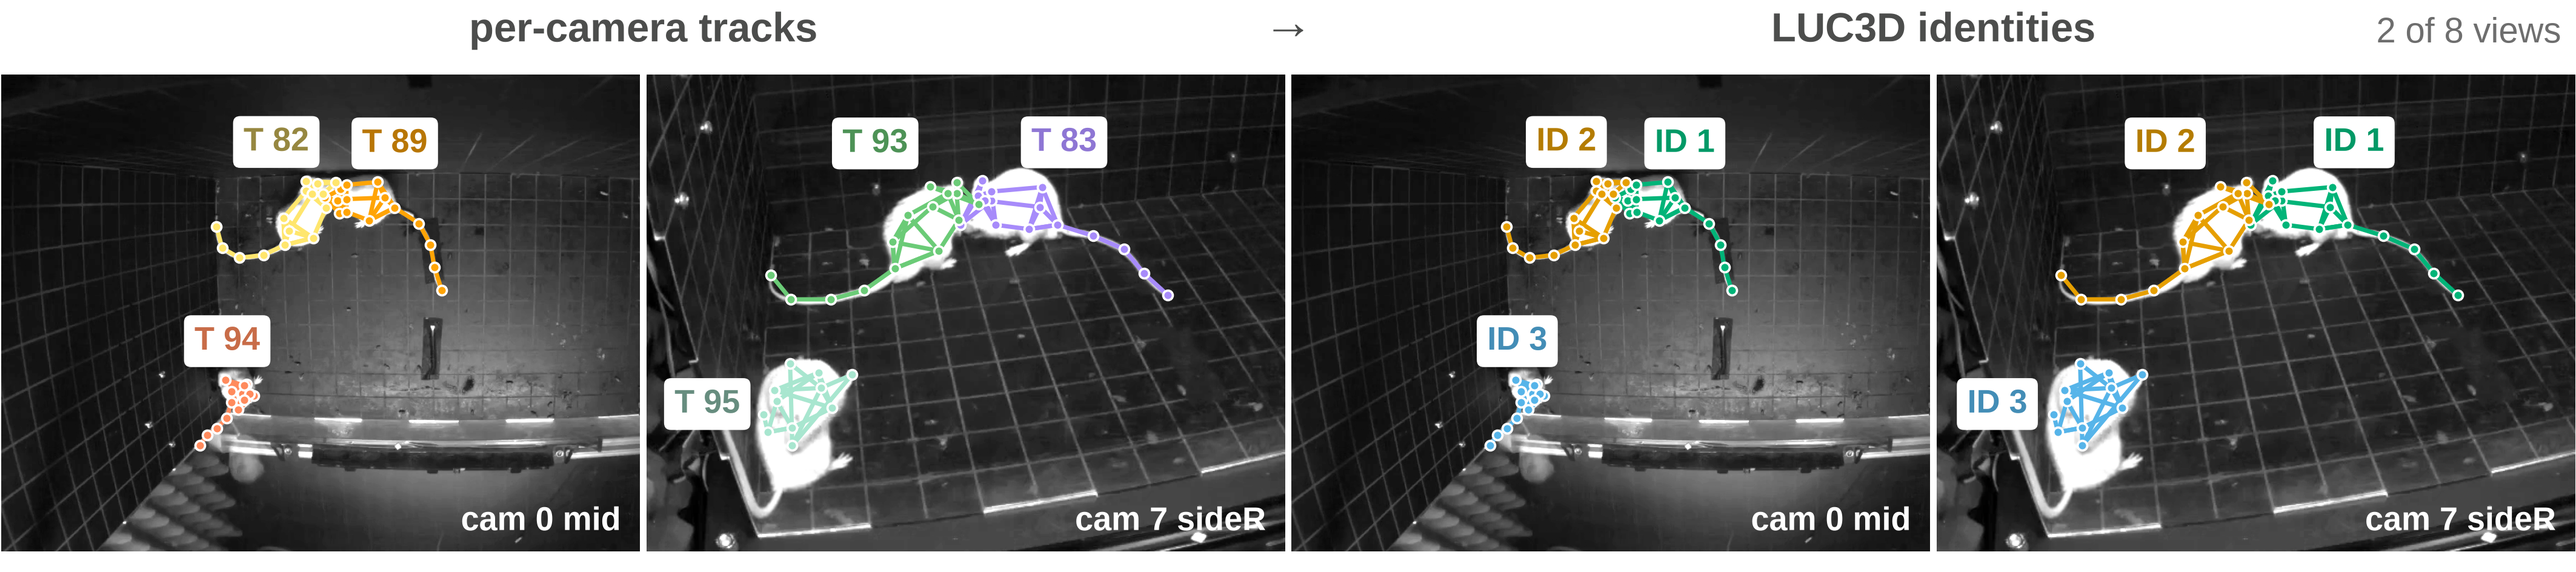
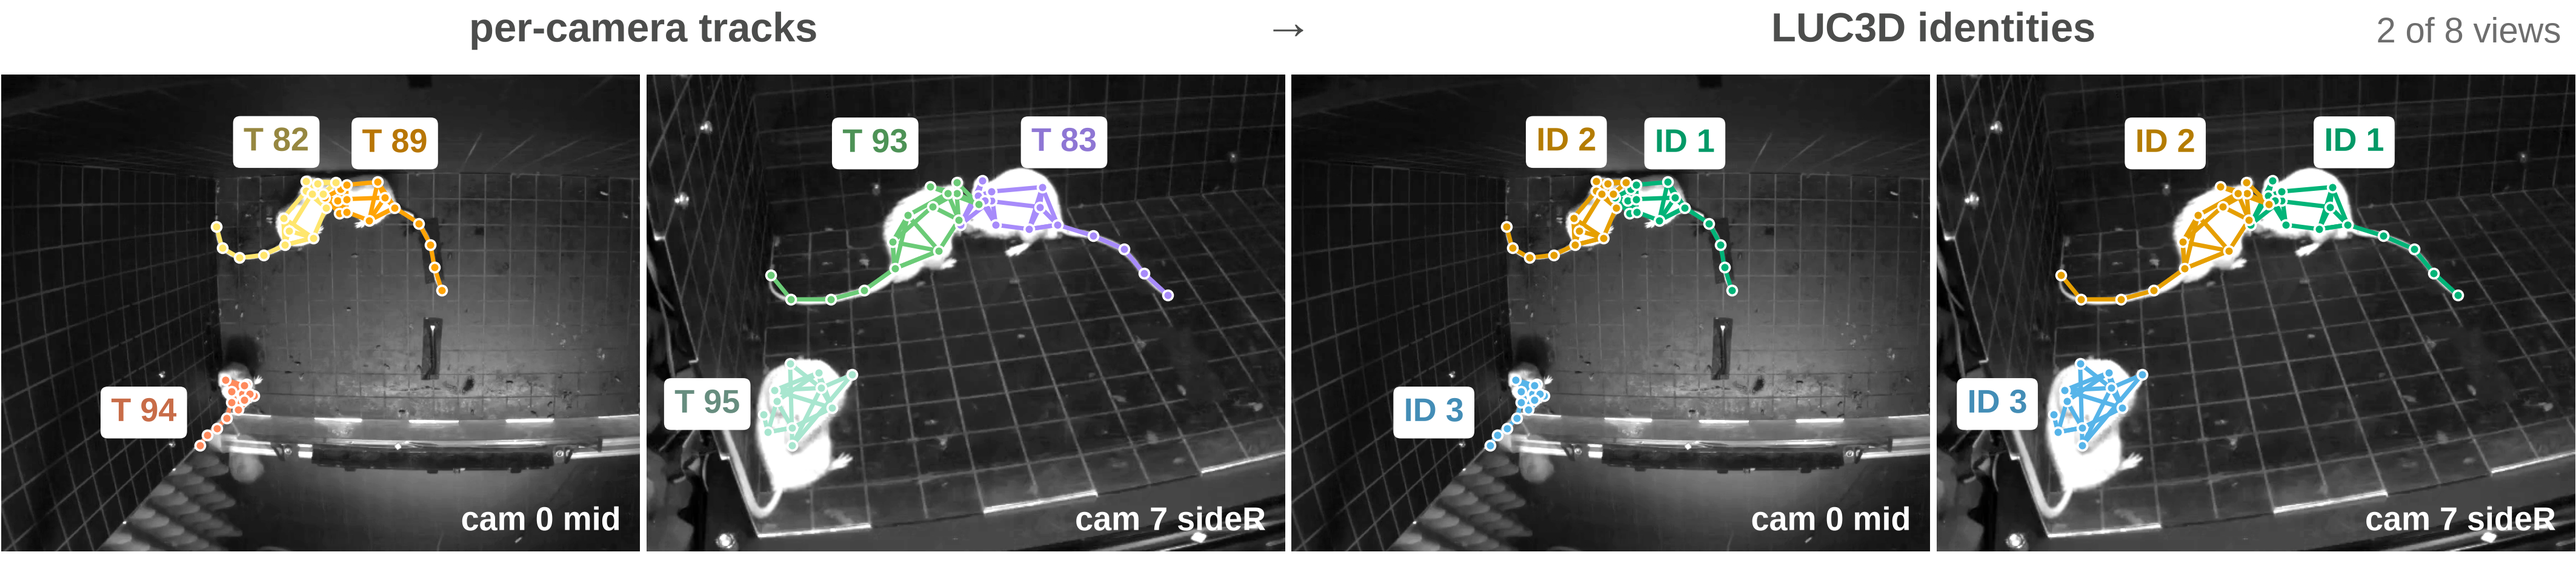
figs: Fig 1C, move the T 94 / ID 3 chips left of the pose in cam 0 mid
The chip search scores against each detection's keypoint bbox, but the
bottom-left mouse's head sits above its detected keypoints, so the preferred
"above" placement covered it. FORCE_SIDE pins those two chips to the left-side
candidates; the other six chips are placed as before. lint_text.py 1: 0 issues.

diff --git a/figs/panels/fig1_02_tracking.py b/figs/panels/fig1_02_tracking.py
@@ -170,6 +170,19 @@ LABEL_GAP_PT = 1.8
 #: PyMuPDF measures it) plus the chip's own 2 x 0.32 em of padding. Used to reserve
 #: the chip's real footprint while searching for a position clear of the animals.
 CHIP_H_EM = 1.80
+
+#: Chips pinned to one side of their own pose, overriding the search below, as
+#: {(camera, label): side}. The search scores chips against each detection's
+#: recorded bbox, which spans the KEYPOINTS -- but in cam 0 the bottom-left mouse's
+#: head and body sit above its detected keypoints, outside that bbox, so the
+#: search's "above" (its preferred side) put `T 94` and `ID 3` on the mouse's head
+#: (Eric, 2026-10-02: "move them to the left of the pose"). Only the left-side
+#: candidates are offered for these chips; the search still picks among the three
+#: vertical alignments and still clamps into the crop.
+FORCE_SIDE = {
+    ("Camera0_mid", "T 94"): "left",
+    ("Camera0_mid", "ID 3"): "left",
+}
 #: One typographic point in millimetres.
 MM_PER_PT = 25.4 / 72.0
 
@@ -437,11 +450,14 @@ def main():
                 acx, acy = (bx0 + bx1) / 2.0, (by0 + by1) / 2.0
                 cands = []
                 for hx in (acx, bx0 + cw / 2, bx1 - cw / 2):
-                    cands.append((hx, by0 - clear - chip_h / 2, 0.00))   # above
-                    cands.append((hx, by1 + clear + chip_h / 2, 0.60))   # below
+                    cands.append((hx, by0 - clear - chip_h / 2, 0.00, "above"))
+                    cands.append((hx, by1 + clear + chip_h / 2, 0.60, "below"))
                 for vy in (acy, by0 + chip_h / 2, by1 - chip_h / 2):
-                    cands.append((bx0 - clear - cw / 2, vy, 0.35))       # left
-                    cands.append((bx1 + clear + cw / 2, vy, 0.35))       # right
+                    cands.append((bx0 - clear - cw / 2, vy, 0.35, "left"))
+                    cands.append((bx1 + clear + cw / 2, vy, 0.35, "right"))
+                side = FORCE_SIDE.get((cam, s))
+                if side:
+                    cands = [c for c in cands if c[3] == side]
                 items.append(dict(s=s, col=col, cw=cw, cands=cands, acx=acx, acy=acy))
 
             # Widest first: a long chip has the fewest positions that clear the
@@ -449,7 +465,7 @@ def main():
             placed = []
             for it in sorted(items, key=lambda t: -t["cw"]):
                 best, best_cost = None, None
-                for (qx, qy, bias) in it["cands"]:
+                for (qx, qy, bias, _side) in it["cands"]:
                     # Clamp into the crop: a chip pushed past an edge would be
                     # clipped mid-glyph, and one above the top edge would land on
                     # the group heading.
